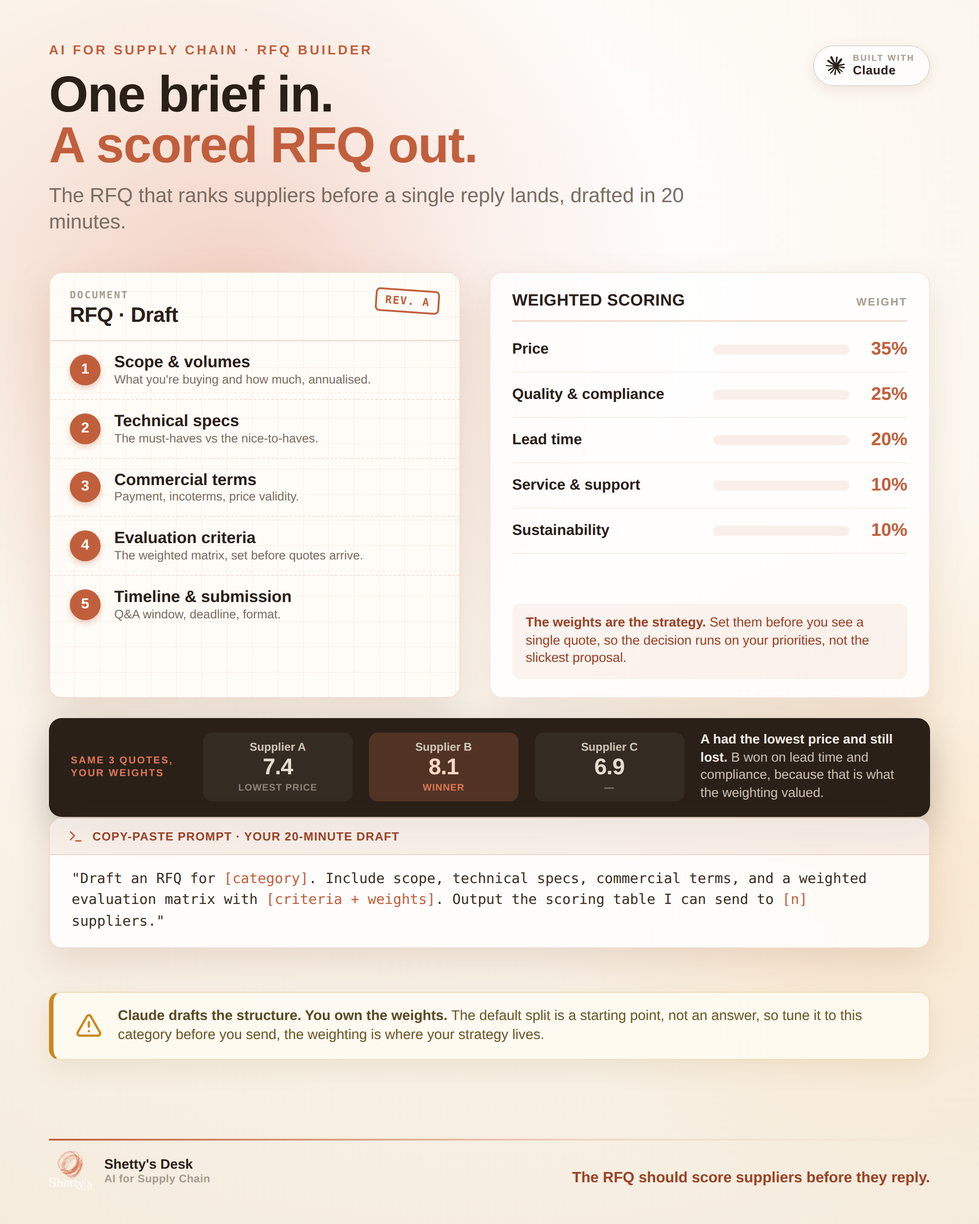
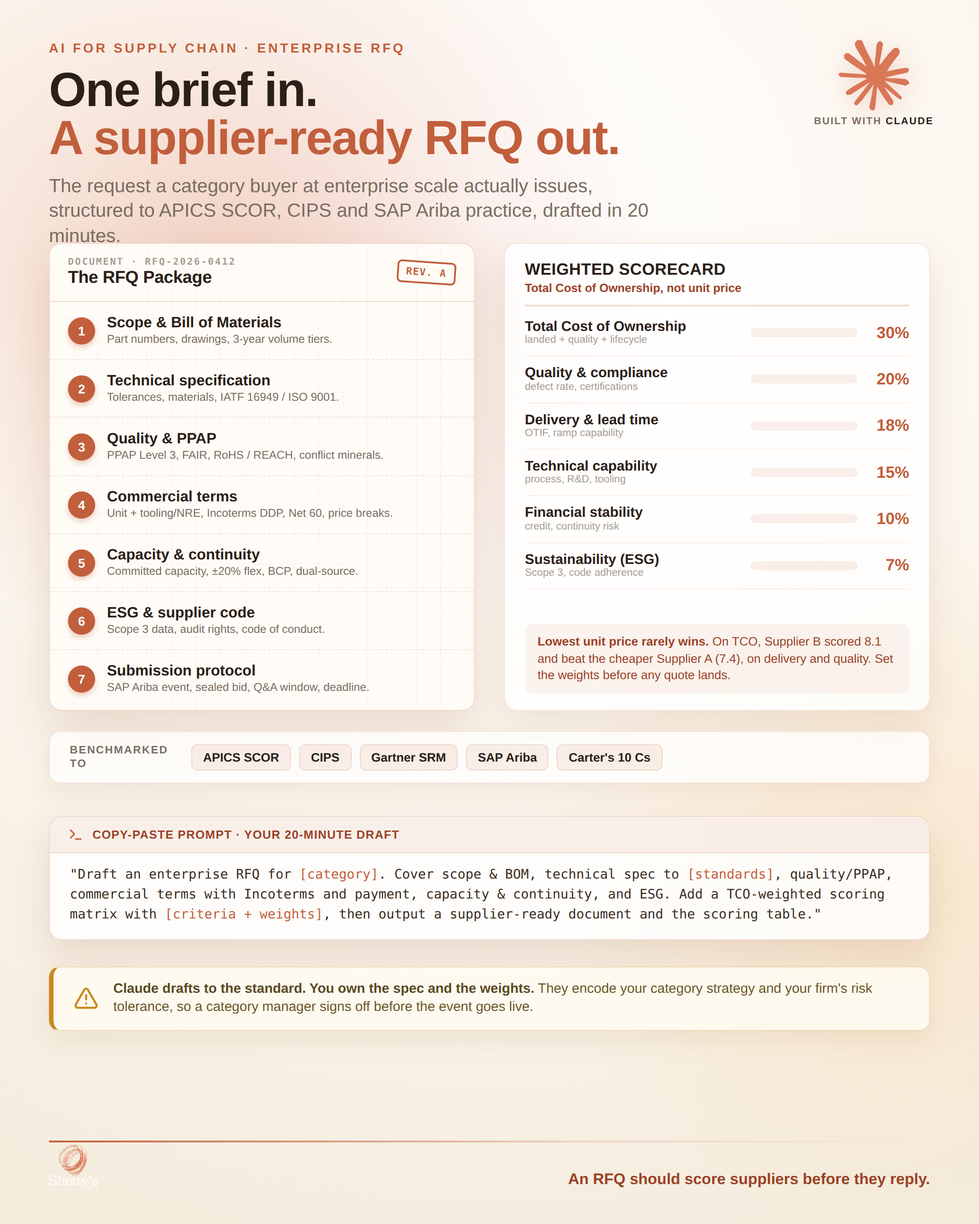
Pilot: direct HTML render workflow + enterprise-grade Ep01 (no Gemini prompt)
New direction (Tiger): drop the Gemini-prompt step entirely and render Shetty's Desk
infographics directly from a render brief, on this pilot branch, to merge later.

- references/render-pilot-workflow.md: the new pipeline (topic -> render brief -> HTML/GSAP
  -> PNG), what changes vs the current /ai-for-sc, GSAP as the animation layer, and the merge
  plan. Shetty's Desk becomes the only brand kit; the tool appears solely as its logo.

- Ep01 rebuilt to enterprise grade (pf7-blueprint-draft v2): a real RFQ package a Samsung/
  Apple category buyer would issue — Scope & BOM, spec to IATF 16949/ISO 9001, PPAP Lvl 3 +
  FAIR + RoHS/REACH + conflict minerals, Incoterms DDP + Net 60 + price breaks, capacity &
  continuity (BCP, dual-source), ESG/Scope 3, SAP Ariba sealed-bid submission. Plus a
  TCO-weighted scorecard (lowest unit price rarely wins) and a credibility strip benchmarked
  to APICS SCOR / CIPS / Gartner SRM / SAP Ariba / Carter's 10 Cs.
- Large Claude logo (clay) top-right; footer is the Shetty's Desk logo only (removed the
  "Shetty's Desk / AI for Supply Chain" wordmark text); homogeneous coral palette throughout.

https://claude.ai/code/session_01Vrk5xpdsJ5u5M1yAaQw8Yb

diff --git a/infographic-setup/renderer/templates/pf7-blueprint-draft.html b/infographic-setup/renderer/templates/pf7-blueprint-draft.html
@@ -3,17 +3,18 @@
 <head>
 <meta charset="UTF-8">
 <!--
-  PF7 — Blueprint Draft (AI for SC · Ep01 · RFQ with weighted scoring · Purchaser × Claude)
-  Bespoke concept: an architect's DRAFT SHEET of the RFQ (left) + a WEIGHTED SCORING matrix (right).
-  Homogeneous Shetty's Desk palette (coral + warm neutrals). Tool = monochrome Claude chip only.
-  Constant coral thread. Bright luminous bg. Canvas 1080x1350 (4:5).
+  PF7 — Blueprint Draft v2 (AI for SC · Ep01 · Enterprise RFQ · Purchaser × Claude)
+  Enterprise-grade: real RFQ package (BOM/IATF/PPAP/Incoterms/ESG/Ariba) + TCO-weighted
+  scorecard, benchmarked to APICS SCOR / CIPS / Gartner SRM / SAP Ariba / Carter's 10 Cs.
+  Homogeneous Shetty's Desk palette. LARGE Claude logo (clay). Footer = Shetty's logo only.
+  Bright luminous bg, constant coral thread. Canvas 1080x1350 (4:5).
 -->
 <link rel="preconnect" href="https://fonts.googleapis.com">
 <link rel="preconnect" href="https://fonts.gstatic.com" crossorigin>
 <link href="https://fonts.googleapis.com/css2?family=Poppins:wght@300;400;500;600;700;800&display=swap&family=JetBrains+Mono:wght@400;500;600&display=swap" rel="stylesheet">
 <style>
   :root{
-    --coral:#C15F3C; --coral-bright:#D97757; --coral-deep:#9A4327;
+    --coral:#C15F3C; --coral-bright:#D97757; --coral-deep:#9A4327; --clay:#D97757;
     --ink:#2A2018; --muted:#7A6E62; --faint:#A59C90; --caution:#C98A1E;
     --sans:'Poppins','Segoe UI',Helvetica,Arial,sans-serif;
     --mono:'JetBrains Mono','SFMono-Regular',Consolas,monospace;
@@ -23,168 +24,167 @@
   .canvas{width:1080px;height:1350px;position:relative;
     font-family:var(--sans);color:var(--ink);overflow:hidden;
     background:
-      radial-gradient(ellipse 64% 46% at 24% 24%, rgba(217,119,87,.32) 0%, rgba(217,119,87,.11) 42%, transparent 72%),
-      radial-gradient(ellipse 56% 44% at 90% 70%, rgba(255,201,135,.26) 0%, transparent 66%),
-      radial-gradient(ellipse 120% 90% at 50% 20%, #FFFFFF 0%, #FCF7EF 44%, #F4EBDC 100%);}
+      radial-gradient(ellipse 62% 44% at 24% 22%, rgba(217,119,87,.32) 0%, rgba(217,119,87,.11) 42%, transparent 72%),
+      radial-gradient(ellipse 56% 44% at 92% 72%, rgba(255,201,135,.24) 0%, transparent 66%),
+      radial-gradient(ellipse 120% 90% at 50% 18%, #FFFFFF 0%, #FCF7EF 44%, #F4EBDC 100%);}
   .canvas::after{content:"";position:absolute;inset:0;pointer-events:none;z-index:9;
     background:radial-gradient(ellipse 112% 96% at 50% 42%, transparent 74%, rgba(150,95,55,.09) 100%);}
 
-  .pad{padding:48px 54px 0;position:relative;z-index:3;}
-  .eyebrow{font-size:14.5px;font-weight:700;letter-spacing:2.6px;text-transform:uppercase;color:var(--coral);margin-bottom:12px;}
-  .hero{font-weight:800;font-size:56px;line-height:1.0;letter-spacing:-1px;color:var(--ink);}
+  .pad{padding:46px 54px 0;position:relative;z-index:3;}
+  .eyebrow{font-size:14.5px;font-weight:700;letter-spacing:2.6px;text-transform:uppercase;color:var(--coral);margin-bottom:11px;}
+  .hero{font-weight:800;font-size:53px;line-height:1.0;letter-spacing:-1px;color:var(--ink);max-width:660px;}
   .hero .c{color:var(--coral);}
-  .heading{font-size:22.5px;font-weight:500;color:var(--muted);margin-top:14px;line-height:1.28;max-width:720px;}
-  .toolchip{position:absolute;top:50px;right:54px;display:flex;align-items:center;gap:9px;z-index:5;
-    background:rgba(255,255,255,.72);border:1px solid rgba(42,32,24,.16);border-radius:999px;padding:9px 16px 9px 13px;
-    box-shadow:0 4px 14px rgba(150,90,55,.12);}
-  .toolchip .ic{width:21px;height:21px;color:var(--ink);} .toolchip .ic svg{width:100%;height:100%;}
-  .toolchip .nm{font-size:13.5px;font-weight:700;color:var(--ink);letter-spacing:.4px;}
-  .toolchip .nm small{display:block;font-size:9.5px;font-weight:700;letter-spacing:1.4px;color:var(--faint);text-transform:uppercase;line-height:1;}
+  .heading{font-size:21px;font-weight:500;color:var(--muted);margin-top:13px;line-height:1.3;max-width:690px;}
+  /* LARGE Claude logo, prominent top-right */
+  .tool{position:absolute;top:44px;right:50px;z-index:5;display:flex;flex-direction:column;align-items:center;gap:6px;}
+  .tool .mk{width:78px;height:78px;color:var(--clay);filter:drop-shadow(0 6px 16px rgba(217,119,87,.32));}
+  .tool .mk svg{width:100%;height:100%;}
+  .tool .lb{font-size:11px;font-weight:700;letter-spacing:1.2px;text-transform:uppercase;color:var(--muted);}
+  .tool .lb b{color:var(--ink);}
 
-  /* ---- LEFT: RFQ draft sheet (blueprint) ---- */
-  .sheet{position:absolute;left:54px;top:300px;width:454px;height:470px;z-index:3;
+  /* LEFT: RFQ package sheet */
+  .sheet{position:absolute;left:54px;top:268px;width:470px;height:516px;z-index:3;
     background:#FFFCF7;border:1px solid rgba(193,95,60,.22);border-radius:14px;overflow:hidden;
     box-shadow:0 20px 48px rgba(150,90,55,.18),inset 0 1px 0 rgba(255,255,255,.9);
     background-image:
-      repeating-linear-gradient(0deg, transparent 0 27px, rgba(193,95,60,.05) 27px 28px),
-      repeating-linear-gradient(90deg, transparent 0 27px, rgba(193,95,60,.05) 27px 28px),
+      repeating-linear-gradient(0deg, transparent 0 26px, rgba(193,95,60,.045) 26px 27px),
+      repeating-linear-gradient(90deg, transparent 0 26px, rgba(193,95,60,.045) 26px 27px),
       linear-gradient(#FFFCF7,#FFFCF7);}
-  .titleblock{display:flex;justify-content:space-between;align-items:flex-start;padding:18px 22px 14px;
+  .titleblock{display:flex;justify-content:space-between;align-items:center;padding:14px 20px;
     border-bottom:1.5px solid rgba(193,95,60,.25);}
-  .titleblock .tb-l .k{font-family:var(--mono);font-size:11px;font-weight:600;letter-spacing:1.5px;color:var(--faint);text-transform:uppercase;}
-  .titleblock .tb-l .t{font-weight:800;font-size:23px;color:var(--ink);letter-spacing:-.3px;margin-top:2px;}
-  .stamp{border:2px solid var(--coral);color:var(--coral);font-family:var(--mono);font-weight:600;font-size:12px;
-    letter-spacing:1px;padding:4px 9px;border-radius:5px;transform:rotate(4deg);text-transform:uppercase;}
-  .srow{display:flex;align-items:center;gap:15px;padding:14px 22px;border-bottom:1px dashed rgba(193,95,60,.18);}
+  .titleblock .k{font-family:var(--mono);font-size:10.5px;font-weight:600;letter-spacing:1.4px;color:var(--faint);text-transform:uppercase;}
+  .titleblock .t{font-weight:800;font-size:19px;color:var(--ink);letter-spacing:-.2px;margin-top:1px;}
+  .stamp{border:2px solid var(--coral);color:var(--coral);font-family:var(--mono);font-weight:600;font-size:11px;
+    letter-spacing:.8px;padding:4px 8px;border-radius:5px;transform:rotate(4deg);text-transform:uppercase;}
+  .srow{display:flex;align-items:center;gap:13px;padding:0 20px;height:64px;border-bottom:1px dashed rgba(193,95,60,.16);}
   .srow:last-child{border-bottom:none;}
-  .snum{width:34px;height:34px;flex:0 0 auto;border-radius:50%;background:var(--coral);color:#fff;
-    font-weight:800;font-size:16px;display:flex;align-items:center;justify-content:center;
-    box-shadow:0 3px 7px rgba(193,95,60,.32);}
-  .srow .sn{font-weight:700;font-size:18px;color:var(--ink);line-height:1.1;}
-  .srow .sg{font-size:13.5px;color:var(--muted);margin-top:1px;}
+  .snum{width:30px;height:30px;flex:0 0 auto;border-radius:50%;background:var(--coral);color:#fff;
+    font-weight:800;font-size:14px;display:flex;align-items:center;justify-content:center;box-shadow:0 3px 6px rgba(193,95,60,.3);}
+  .srow .sn{font-weight:700;font-size:16.5px;color:var(--ink);line-height:1.05;}
+  .srow .sg{font-size:12.5px;color:var(--muted);margin-top:2px;line-height:1.15;}
 
-  /* ---- RIGHT: weighted scoring matrix ---- */
-  .matrix{position:absolute;left:540px;top:300px;width:486px;height:470px;z-index:3;
-    background:rgba(255,255,255,.8);border:1px solid rgba(193,95,60,.16);border-radius:14px;padding:20px 24px;
+  /* RIGHT: TCO-weighted scorecard */
+  .matrix{position:absolute;left:556px;top:268px;width:470px;height:516px;z-index:3;
+    background:rgba(255,255,255,.8);border:1px solid rgba(193,95,60,.16);border-radius:14px;padding:18px 22px;
     box-shadow:0 16px 40px rgba(150,90,55,.14),inset 0 1px 0 rgba(255,255,255,.9);display:flex;flex-direction:column;}
-  .mhead{display:flex;justify-content:space-between;align-items:baseline;border-bottom:2px solid rgba(193,95,60,.2);padding-bottom:11px;margin-bottom:6px;}
-  .mhead .mt{font-weight:800;font-size:18px;letter-spacing:.3px;color:var(--ink);text-transform:uppercase;}
-  .mhead .mw{font-size:12px;font-weight:700;letter-spacing:1.4px;color:var(--faint);text-transform:uppercase;}
-  .mrow{display:grid;grid-template-columns:1fr 150px 52px;align-items:center;gap:12px;padding:13px 0;border-bottom:1px solid rgba(193,95,60,.1);}
-  .mrow .mc{font-weight:600;font-size:16.5px;color:var(--ink);}
-  .mrow .mbarwrap{height:11px;background:rgba(193,95,60,.1);border-radius:6px;overflow:hidden;}
-  .mrow .mbar{height:100%;background:linear-gradient(90deg,var(--coral-bright),var(--coral));border-radius:6px;}
-  .mrow .mp{font-weight:800;font-size:20px;color:var(--coral);text-align:right;font-variant-numeric:tabular-nums;}
-  .mnote{margin-top:auto;background:rgba(193,95,60,.07);border-radius:9px;padding:12px 15px;font-size:14.5px;
-    color:var(--coral-deep);line-height:1.36;}
+  .mhead .mt{font-weight:800;font-size:18px;letter-spacing:.2px;color:var(--ink);text-transform:uppercase;}
+  .mhead .ms{font-size:13px;font-weight:600;color:var(--coral-deep);margin-top:2px;}
+  .mhead{border-bottom:2px solid rgba(193,95,60,.2);padding-bottom:11px;margin-bottom:4px;}
+  .mrow{display:grid;grid-template-columns:1fr 118px 46px;align-items:center;gap:11px;padding:11px 0;border-bottom:1px solid rgba(193,95,60,.1);}
+  .mrow .mc{font-weight:600;font-size:15.5px;color:var(--ink);line-height:1.05;}
+  .mrow .mc small{display:block;font-weight:500;font-size:11.5px;color:var(--faint);}
+  .mrow .mbarwrap{height:10px;background:rgba(193,95,60,.1);border-radius:5px;overflow:hidden;}
+  .mrow .mbar{height:100%;background:linear-gradient(90deg,var(--coral-bright),var(--coral));border-radius:5px;}
+  .mrow .mp{font-weight:800;font-size:18px;color:var(--coral);text-align:right;font-variant-numeric:tabular-nums;}
+  .mnote{margin-top:auto;background:rgba(193,95,60,.07);border-radius:9px;padding:11px 14px;font-size:13.5px;
+    color:var(--coral-deep);line-height:1.35;}
   .mnote b{font-weight:700;}
 
-  /* ---- worked example strip ---- */
-  .ex{position:absolute;left:54px;top:792px;width:972px;z-index:3;display:flex;align-items:center;gap:18px;
-    background:var(--ink);border-radius:14px;padding:15px 24px;color:#F4ECE2;box-shadow:0 16px 40px rgba(42,32,24,.28);}
-  .ex .exk{font-size:11px;font-weight:800;letter-spacing:1.4px;text-transform:uppercase;color:var(--coral-bright);
-    width:128px;flex:0 0 auto;line-height:1.3;}
-  .ex .sup{flex:1;display:flex;flex-direction:column;align-items:center;border-radius:10px;padding:9px 6px;}
-  .ex .sup .sl{font-size:12.5px;font-weight:600;color:#CFC4B6;}
-  .ex .sup .ss{font-weight:800;font-size:25px;letter-spacing:-.5px;margin-top:1px;}
-  .ex .sup .sx{font-size:10.5px;font-weight:700;letter-spacing:.6px;text-transform:uppercase;margin-top:2px;}
-  .ex .win{background:rgba(217,119,87,.22);} .ex .win .ss{color:#FFD9C6;} .ex .win .sx{color:var(--coral-bright);}
-  .ex .lose{background:rgba(255,255,255,.05);} .ex .lose .ss{color:#E6DCCF;} .ex .lose .sx{color:#8C8175;}
-  .ex .cap{flex:1.5;font-size:14.5px;line-height:1.36;color:#C9BEB0;}
-  .ex .cap b{color:#F4ECE2;font-weight:600;}
+  /* credibility strip */
+  .cred{position:absolute;left:54px;top:806px;width:972px;z-index:3;display:flex;align-items:center;gap:16px;
+    background:rgba(255,255,255,.72);border:1px solid rgba(193,95,60,.16);border-radius:12px;padding:13px 22px;
+    box-shadow:0 10px 26px rgba(150,90,55,.1);}
+  .cred .cl{font-size:12px;font-weight:800;letter-spacing:1.2px;text-transform:uppercase;color:var(--muted);flex:0 0 auto;line-height:1.25;width:118px;}
+  .cred .pills{display:flex;gap:9px;flex-wrap:wrap;flex:1;}
+  .cred .pill{font-size:13.5px;font-weight:700;color:var(--ink);background:rgba(193,95,60,.09);
+    border:1px solid rgba(193,95,60,.16);border-radius:7px;padding:6px 12px;}
 
-  /* ---- prompt ---- */
-  .prompt{position:absolute;left:54px;top:902px;width:972px;z-index:3;
+  /* prompt */
+  .prompt{position:absolute;left:54px;top:900px;width:972px;z-index:3;
     background:rgba(255,255,255,.82);border:1px solid rgba(193,95,60,.24);border-radius:14px;
     box-shadow:0 16px 40px rgba(150,90,55,.16),inset 0 1px 0 rgba(255,255,255,.9);overflow:hidden;}
   .pbar{display:flex;align-items:center;gap:10px;padding:11px 20px;background:rgba(193,95,60,.09);border-bottom:1px solid rgba(193,95,60,.18);}
   .pbar .pi{width:17px;height:17px;color:var(--coral);} .pbar .pi svg{width:100%;height:100%;}
   .pbar .pt{font-size:13px;font-weight:700;letter-spacing:.7px;text-transform:uppercase;color:var(--coral-deep);}
-  .pbody{padding:15px 24px 17px;font-family:var(--mono);font-size:15.5px;line-height:1.5;color:#3A2E22;}
+  .pbody{padding:14px 22px 16px;font-family:var(--mono);font-size:14.5px;line-height:1.5;color:#3A2E22;}
   .pbody .ph{color:var(--coral);font-weight:500;}
 
-  /* ---- watch for ---- */
-  .watch{position:absolute;left:54px;top:1094px;width:972px;z-index:3;display:flex;align-items:center;gap:17px;
+  /* watch for */
+  .watch{position:absolute;left:54px;top:1066px;width:972px;z-index:3;display:flex;align-items:center;gap:16px;
     background:rgba(255,251,242,.85);border:1px solid rgba(201,138,30,.28);border-left:5px solid var(--caution);
-    border-radius:12px;padding:15px 24px;box-shadow:0 10px 28px rgba(150,110,40,.1);}
-  .watch .wi{width:30px;height:30px;flex:0 0 auto;color:var(--caution);} .watch .wi svg{width:100%;height:100%;}
-  .watch .wt{font-size:15.5px;line-height:1.38;color:#6B5828;} .watch .wt b{color:#5A4A24;font-weight:700;}
+    border-radius:12px;padding:14px 22px;box-shadow:0 10px 28px rgba(150,110,40,.1);}
+  .watch .wi{width:28px;height:28px;flex:0 0 auto;color:var(--caution);} .watch .wi svg{width:100%;height:100%;}
+  .watch .wt{font-size:15px;line-height:1.36;color:#6B5828;} .watch .wt b{color:#5A4A24;font-weight:700;}
 
-  /* ---- footer (coral thread) ---- */
-  .footrule{position:absolute;left:54px;right:54px;bottom:92px;height:2px;z-index:3;
+  /* footer: Shetty's logo only + coral thread */
+  .footrule{position:absolute;left:54px;right:54px;bottom:90px;height:2px;z-index:3;
     background:linear-gradient(90deg,var(--coral),rgba(193,95,60,.16) 62%,transparent);}
-  .foot{position:absolute;left:54px;bottom:34px;display:flex;align-items:center;gap:13px;z-index:10;}
-  .foot img{width:48px;height:48px;object-fit:contain;}
-  .foot .fh{font-size:15px;font-weight:700;color:var(--ink);line-height:1.15;}
-  .foot .fh span{display:block;font-size:12px;font-weight:600;color:var(--faint);letter-spacing:.3px;}
-  .thesis{position:absolute;right:54px;bottom:40px;max-width:480px;text-align:right;z-index:10;
-    font-size:16.5px;font-weight:600;color:var(--coral-deep);line-height:1.3;}
+  .foot{position:absolute;left:54px;bottom:30px;z-index:10;}
+  .foot img{width:54px;height:54px;object-fit:contain;}
+  .thesis{position:absolute;right:54px;bottom:38px;max-width:560px;text-align:right;z-index:10;
+    font-size:17px;font-weight:600;color:var(--coral-deep);line-height:1.3;}
 </style>
 </head>
 <body>
 <div class="canvas" id="card">
-  <!-- tool chip: Claude, monochrome -->
-  <div class="toolchip">
-    <span class="ic"><svg viewBox="0 0 24 24" fill="currentColor" xmlns="http://www.w3.org/2000/svg"><path fill-rule="nonzero" d="M4.709 15.955l4.72-2.647.08-.23-.08-.128H9.2l-.79-.048-2.698-.073-2.339-.097-2.266-.122-.571-.121L0 11.784l.055-.352.48-.321.686.06 1.52.103 2.278.158 1.652.097 2.449.255h.389l.055-.157-.134-.098-.103-.097-2.358-1.596-2.552-1.688-1.336-.972-.724-.491-.364-.462-.158-1.008.656-.722.881.06.225.061.893.686 1.908 1.476 2.491 1.833.365.304.145-.103.019-.073-.164-.274-1.355-2.446-1.446-2.49-.644-1.032-.17-.619a2.97 2.97 0 01-.104-.729L6.283.134 6.696 0l.996.134.42.364.62 1.414 1.002 2.229 1.555 3.03.456.898.243.832.091.255h.158V9.01l.128-1.706.237-2.095.23-2.695.08-.76.376-.91.747-.492.584.28.48.685-.067.444-.286 1.851-.559 2.903-.364 1.942h.212l.243-.242.985-1.306 1.652-2.064.73-.82.85-.904.547-.431h1.033l.76 1.129-.34 1.166-1.064 1.347-.881 1.142-1.264 1.7-.79 1.36.073.11.188-.02 2.856-.606 1.543-.28 1.841-.315.833.388.091.395-.328.807-1.969.486-2.309.462-3.439.813-.042.03.049.061 1.549.146.662.036h1.622l3.02.225.79.522.474.638-.079.485-1.215.62-1.64-.389-3.829-.91-1.312-.329h-.182v.11l1.093 1.068 2.006 1.81 2.509 2.33.127.578-.322.455-.34-.049-2.205-1.657-.851-.747-1.926-1.62h-.128v.17l.444.649 2.345 3.521.122 1.08-.17.353-.608.213-.668-.122-1.374-1.925-1.415-2.167-1.143-1.943-.14.08-.674 7.254-.316.37-.729.28-.607-.461-.322-.747.322-1.476.389-1.924.315-1.53.286-1.9.17-.632-.012-.042-.14.018-1.434 1.967-2.18 2.945-1.726 1.845-.414.164-.717-.37.067-.662.401-.589 2.388-3.036 1.44-1.882.93-1.086-.006-.158h-.055L4.132 18.56l-1.13.146-.487-.456.061-.746.231-.243 1.908-1.312-.006.006z"/></svg></span>
-    <span class="nm"><small>Built with</small>Claude</span>
+  <!-- LARGE Claude logo -->
+  <div class="tool">
+    <span class="mk"><svg viewBox="0 0 24 24" fill="currentColor" xmlns="http://www.w3.org/2000/svg"><path fill-rule="nonzero" d="M4.709 15.955l4.72-2.647.08-.23-.08-.128H9.2l-.79-.048-2.698-.073-2.339-.097-2.266-.122-.571-.121L0 11.784l.055-.352.48-.321.686.06 1.52.103 2.278.158 1.652.097 2.449.255h.389l.055-.157-.134-.098-.103-.097-2.358-1.596-2.552-1.688-1.336-.972-.724-.491-.364-.462-.158-1.008.656-.722.881.06.225.061.893.686 1.908 1.476 2.491 1.833.365.304.145-.103.019-.073-.164-.274-1.355-2.446-1.446-2.49-.644-1.032-.17-.619a2.97 2.97 0 01-.104-.729L6.283.134 6.696 0l.996.134.42.364.62 1.414 1.002 2.229 1.555 3.03.456.898.243.832.091.255h.158V9.01l.128-1.706.237-2.095.23-2.695.08-.76.376-.91.747-.492.584.28.48.685-.067.444-.286 1.851-.559 2.903-.364 1.942h.212l.243-.242.985-1.306 1.652-2.064.73-.82.85-.904.547-.431h1.033l.76 1.129-.34 1.166-1.064 1.347-.881 1.142-1.264 1.7-.79 1.36.073.11.188-.02 2.856-.606 1.543-.28 1.841-.315.833.388.091.395-.328.807-1.969.486-2.309.462-3.439.813-.042.03.049.061 1.549.146.662.036h1.622l3.02.225.79.522.474.638-.079.485-1.215.62-1.64-.389-3.829-.91-1.312-.329h-.182v.11l1.093 1.068 2.006 1.81 2.509 2.33.127.578-.322.455-.34-.049-2.205-1.657-.851-.747-1.926-1.62h-.128v.17l.444.649 2.345 3.521.122 1.08-.17.353-.608.213-.668-.122-1.374-1.925-1.415-2.167-1.143-1.943-.14.08-.674 7.254-.316.37-.729.28-.607-.461-.322-.747.322-1.476.389-1.924.315-1.53.286-1.9.17-.632-.012-.042-.14.018-1.434 1.967-2.18 2.945-1.726 1.845-.414.164-.717-.37.067-.662.401-.589 2.388-3.036 1.44-1.882.93-1.086-.006-.158h-.055L4.132 18.56l-1.13.146-.487-.456.061-.746.231-.243 1.908-1.312-.006.006z"/></svg></span>
+    <span class="lb">Built with <b>Claude</b></span>
   </div>
 
   <div class="pad">
-    <div class="eyebrow">AI for Supply Chain · RFQ Builder</div>
-    <div class="hero">One brief in.<br><span class="c">A scored RFQ out.</span></div>
-    <div class="heading">The RFQ that ranks suppliers before a single reply lands, drafted in 20 minutes.</div>
+    <div class="eyebrow">AI for Supply Chain · Enterprise RFQ</div>
+    <div class="hero">One brief in.<br><span class="c">A supplier-ready RFQ out.</span></div>
+    <div class="heading">The request a category buyer at enterprise scale actually issues, structured to APICS SCOR, CIPS and SAP Ariba practice, drafted in 20 minutes.</div>
   </div>
 
-  <!-- LEFT: RFQ draft sheet -->
+  <!-- LEFT: RFQ package -->
   <div class="sheet">
     <div class="titleblock">
-      <div class="tb-l"><div class="k">Document</div><div class="t">RFQ · Draft</div></div>
+      <div><div class="k">Document · RFQ-2026-0412</div><div class="t">The RFQ Package</div></div>
       <div class="stamp">Rev. A</div>
     </div>
-    <div class="srow"><div class="snum">1</div><div><div class="sn">Scope &amp; volumes</div><div class="sg">What you're buying and how much, annualised.</div></div></div>
-    <div class="srow"><div class="snum">2</div><div><div class="sn">Technical specs</div><div class="sg">The must-haves vs the nice-to-haves.</div></div></div>
-    <div class="srow"><div class="snum">3</div><div><div class="sn">Commercial terms</div><div class="sg">Payment, incoterms, price validity.</div></div></div>
-    <div class="srow"><div class="snum">4</div><div><div class="sn">Evaluation criteria</div><div class="sg">The weighted matrix, set before quotes arrive.</div></div></div>
-    <div class="srow"><div class="snum">5</div><div><div class="sn">Timeline &amp; submission</div><div class="sg">Q&amp;A window, deadline, format.</div></div></div>
+    <div class="srow"><div class="snum">1</div><div><div class="sn">Scope &amp; Bill of Materials</div><div class="sg">Part numbers, drawings, 3-year volume tiers.</div></div></div>
+    <div class="srow"><div class="snum">2</div><div><div class="sn">Technical specification</div><div class="sg">Tolerances, materials, IATF 16949 / ISO 9001.</div></div></div>
+    <div class="srow"><div class="snum">3</div><div><div class="sn">Quality &amp; PPAP</div><div class="sg">PPAP Level 3, FAIR, RoHS / REACH, conflict minerals.</div></div></div>
+    <div class="srow"><div class="snum">4</div><div><div class="sn">Commercial terms</div><div class="sg">Unit + tooling/NRE, Incoterms DDP, Net 60, price breaks.</div></div></div>
+    <div class="srow"><div class="snum">5</div><div><div class="sn">Capacity &amp; continuity</div><div class="sg">Committed capacity, ±20% flex, BCP, dual-source.</div></div></div>
+    <div class="srow"><div class="snum">6</div><div><div class="sn">ESG &amp; supplier code</div><div class="sg">Scope 3 data, audit rights, code of conduct.</div></div></div>
+    <div class="srow"><div class="snum">7</div><div><div class="sn">Submission protocol</div><div class="sg">SAP Ariba event, sealed bid, Q&amp;A window, deadline.</div></div></div>
   </div>
 
-  <!-- RIGHT: weighted scoring matrix -->
+  <!-- RIGHT: TCO scorecard -->
   <div class="matrix">
-    <div class="mhead"><span class="mt">Weighted scoring</span><span class="mw">Weight</span></div>
-    <div class="mrow"><span class="mc">Price</span><span class="mbarwrap"><span class="mbar" style="width:100%"></span></span><span class="mp">35%</span></div>
-    <div class="mrow"><span class="mc">Quality &amp; compliance</span><span class="mbarwrap"><span class="mbar" style="width:71%"></span></span><span class="mp">25%</span></div>
-    <div class="mrow"><span class="mc">Lead time</span><span class="mbarwrap"><span class="mbar" style="width:57%"></span></span><span class="mp">20%</span></div>
-    <div class="mrow"><span class="mc">Service &amp; support</span><span class="mbarwrap"><span class="mbar" style="width:29%"></span></span><span class="mp">10%</span></div>
-    <div class="mrow"><span class="mc">Sustainability</span><span class="mbarwrap"><span class="mbar" style="width:29%"></span></span><span class="mp">10%</span></div>
-    <div class="mnote"><b>The weights are the strategy.</b> Set them before you see a single quote, so the decision runs on your priorities, not the slickest proposal.</div>
+    <div class="mhead"><div class="mt">Weighted scorecard</div><div class="ms">Total Cost of Ownership, not unit price</div></div>
+    <div class="mrow"><span class="mc">Total Cost of Ownership<small>landed + quality + lifecycle</small></span><span class="mbarwrap"><span class="mbar" style="width:100%"></span></span><span class="mp">30%</span></div>
+    <div class="mrow"><span class="mc">Quality &amp; compliance<small>defect rate, certifications</small></span><span class="mbarwrap"><span class="mbar" style="width:67%"></span></span><span class="mp">20%</span></div>
+    <div class="mrow"><span class="mc">Delivery &amp; lead time<small>OTIF, ramp capability</small></span><span class="mbarwrap"><span class="mbar" style="width:60%"></span></span><span class="mp">18%</span></div>
+    <div class="mrow"><span class="mc">Technical capability<small>process, R&amp;D, tooling</small></span><span class="mbarwrap"><span class="mbar" style="width:50%"></span></span><span class="mp">15%</span></div>
+    <div class="mrow"><span class="mc">Financial stability<small>credit, continuity risk</small></span><span class="mbarwrap"><span class="mbar" style="width:33%"></span></span><span class="mp">10%</span></div>
+    <div class="mrow"><span class="mc">Sustainability (ESG)<small>Scope 3, code adherence</small></span><span class="mbarwrap"><span class="mbar" style="width:23%"></span></span><span class="mp">7%</span></div>
+    <div class="mnote"><b>Lowest unit price rarely wins.</b> On TCO, Supplier B scored 8.1 and beat the cheaper Supplier A (7.4), on delivery and quality. Set the weights before any quote lands.</div>
   </div>
 
-  <!-- worked example -->
-  <div class="ex">
-    <div class="exk">Same 3 quotes, your weights</div>
-    <div class="sup lose"><div class="sl">Supplier A</div><div class="ss">7.4</div><div class="sx">Lowest price</div></div>
-    <div class="sup win"><div class="sl">Supplier B</div><div class="ss">8.1</div><div class="sx">Winner</div></div>
-    <div class="sup lose"><div class="sl">Supplier C</div><div class="ss">6.9</div><div class="sx">—</div></div>
-    <div class="cap"><b>A had the lowest price and still lost.</b> B won on lead time and compliance, because that is what the weighting valued.</div>
+  <!-- credibility strip -->
+  <div class="cred">
+    <div class="cl">Benchmarked to</div>
+    <div class="pills">
+      <span class="pill">APICS SCOR</span>
+      <span class="pill">CIPS</span>
+      <span class="pill">Gartner SRM</span>
+      <span class="pill">SAP Ariba</span>
+      <span class="pill">Carter's 10 Cs</span>
+    </div>
   </div>
 
   <!-- prompt -->
   <div class="prompt">
     <div class="pbar"><span class="pi"><svg viewBox="0 0 24 24" fill="none" stroke="currentColor" stroke-width="2.2" stroke-linecap="round" stroke-linejoin="round"><polyline points="4 17 10 11 4 5"/><line x1="12" y1="19" x2="20" y2="19"/></svg></span>
       <span class="pt">Copy-paste prompt · your 20-minute draft</span></div>
-    <div class="pbody">"Draft an RFQ for <span class="ph">[category]</span>. Include scope, technical specs, commercial terms, and a weighted evaluation matrix with <span class="ph">[criteria + weights]</span>. Output the scoring table I can send to <span class="ph">[n]</span> suppliers."</div>
+    <div class="pbody">"Draft an enterprise RFQ for <span class="ph">[category]</span>. Cover scope &amp; BOM, technical spec to <span class="ph">[standards]</span>, quality/PPAP, commercial terms with Incoterms and payment, capacity &amp; continuity, and ESG. Add a TCO-weighted scoring matrix with <span class="ph">[criteria + weights]</span>, then output a supplier-ready document and the scoring table."</div>
   </div>
 
   <!-- watch for -->
   <div class="watch">
     <div class="wi"><svg viewBox="0 0 24 24" fill="none" stroke="currentColor" stroke-width="2" stroke-linecap="round" stroke-linejoin="round"><path d="m21.73 18-8-14a2 2 0 0 0-3.48 0l-8 14A2 2 0 0 0 4 21h16a2 2 0 0 0 1.73-3"/><path d="M12 9v4"/><path d="M12 17h.01"/></svg></div>
-    <div class="wt"><b>Claude drafts the structure. You own the weights.</b> The default split is a starting point, not an answer, so tune it to this category before you send, the weighting is where your strategy lives.</div>
+    <div class="wt"><b>Claude drafts to the standard. You own the spec and the weights.</b> They encode your category strategy and your firm's risk tolerance, so a category manager signs off before the event goes live.</div>
   </div>
 
-  <!-- footer: coral thread -->
+  <!-- footer: Shetty's Desk logo only + coral thread -->
   <div class="footrule"></div>
-  <div class="foot"><img src="../assets/logos/shettys-desk-logo-1.png" alt="Shetty's Desk"><div class="fh">Shetty's Desk<span>AI for Supply Chain</span></div></div>
-  <div class="thesis">The RFQ should score suppliers before they reply.</div>
+  <div class="foot"><img src="../assets/logos/shettys-desk-logo-1.png" alt="Shetty's Desk"></div>
+  <div class="thesis">An RFQ should score suppliers before they reply.</div>
 
 </div>
 </body>

diff --git a/infographic-setup/references/render-pilot-workflow.md b/infographic-setup/references/render-pilot-workflow.md
@@ -1,0 +1,41 @@
+# Render Pilot — Direct HTML/GSAP Workflow (no Gemini prompt)
+**Created**: 2026-06-16 · **Branch**: `claude/html-render-pilot` · **Status**: Pilot, to merge into the main workflow once validated.
+**Why**: The Gemini-prompt step is a lossy translation layer — it reintroduces data hallucination and tool-branded (off-brand) visuals, the exact problems the code renderer exists to remove. This pilot removes it and renders Shetty's Desk infographics directly from a render brief.
+
+---
+
+## The new pipeline (replaces topic → caption → Gemini prompt → paste)
+
+```
+1. TOPIC        pull the episode from ai-for-sc-plan-v2.md (Role / Tool / Use Case / Hook / Visual concept)
+2. RENDER BRIEF enrich it into a full brief (ai-for-sc-render-briefs.md schema):
+                real data, the bespoke visual concept, the verbatim prompt, a worked example,
+                the honest limitation, the closing thesis. THIS is the "more context / dive deeper"
+                step — it replaces the Gemini prompt as the bridge.
+3. HTML/GSAP    assemble a self-contained template from the Shetty's component kit (renderer/):
+                bright luminous bg, constant coral thread, homogeneous palette, large tool logo,
+                Shetty's Desk logo footer. GSAP available for animation (tool-to-tool flow posts).
+4. RENDER       node render.mjs templates/<ep>.html out/<ep>.png   (Playwright → 2160x2700 PNG)
+                [future] GSAP timeline → MP4/GIF for animated posts.
+5. CAPTION      the LinkedIn caption is written as today (voice files), independent of the visual.
+```
+
+**No Gemini prompt is produced.** The brand kit is Shetty's Desk only; the AI tool appears solely as its logo.
+
+## What changes vs the current `/ai-for-sc`
+| Step | Current | Pilot |
+|---|---|---|
+| Visual spec | a Gemini prompt block in `ai-for-sc-[slug].md` | a **render brief** in `ai-for-sc-render-briefs.md` |
+| Visual output | paste prompt into Gemini, hope numbers survive | deterministic **HTML → PNG** via the renderer |
+| Brand | tool identity palette baked into the prompt | **homogeneous Shetty's Desk** palette; tool = logo only |
+| Animation | none | **GSAP** in-template (frame today, video later) |
+
+## Merge plan (when the pilot is signed off)
+1. Update `CLAUDE.md` (both) — AI-for-SC "Visual" column: `code-render (renderer/) from a render brief`, not Gemini.
+2. Repoint the `/ai-for-sc` skill — emit a render brief + build the HTML, stop emitting a Gemini-prompt section.
+3. Fold the homogeneous-branding rule into `ai-for-sc-visual-dna.md`; archive the Gemini-prompt scaffolding for AI-for-SC (keep Gemini only as a fallback for illustration/metaphor posts with no load-bearing data).
+4. Merge `claude/html-render-pilot` → the working branch.
+
+## Pilot proofs (this branch)
+- **Ep01 — Blueprint Draft v2** (enterprise RFQ): `renderer/templates/pf7-blueprint-draft.html` → `out/pf7-blueprint-draft.png`. Real RFQ package (BOM/IATF/PPAP/Incoterms/ESG/Ariba) + TCO-weighted scorecard, benchmarked to APICS SCOR / CIPS / Gartner SRM / SAP Ariba / Carter's 10 Cs. Large Claude logo; Shetty's Desk logo-only footer. The professional-depth + homogeneous-brand standard for the merge.
+- **Ep02 — Cost Anatomy** (`pf6-cost-anatomy.html`) — homogeneous, built on the working branch.
